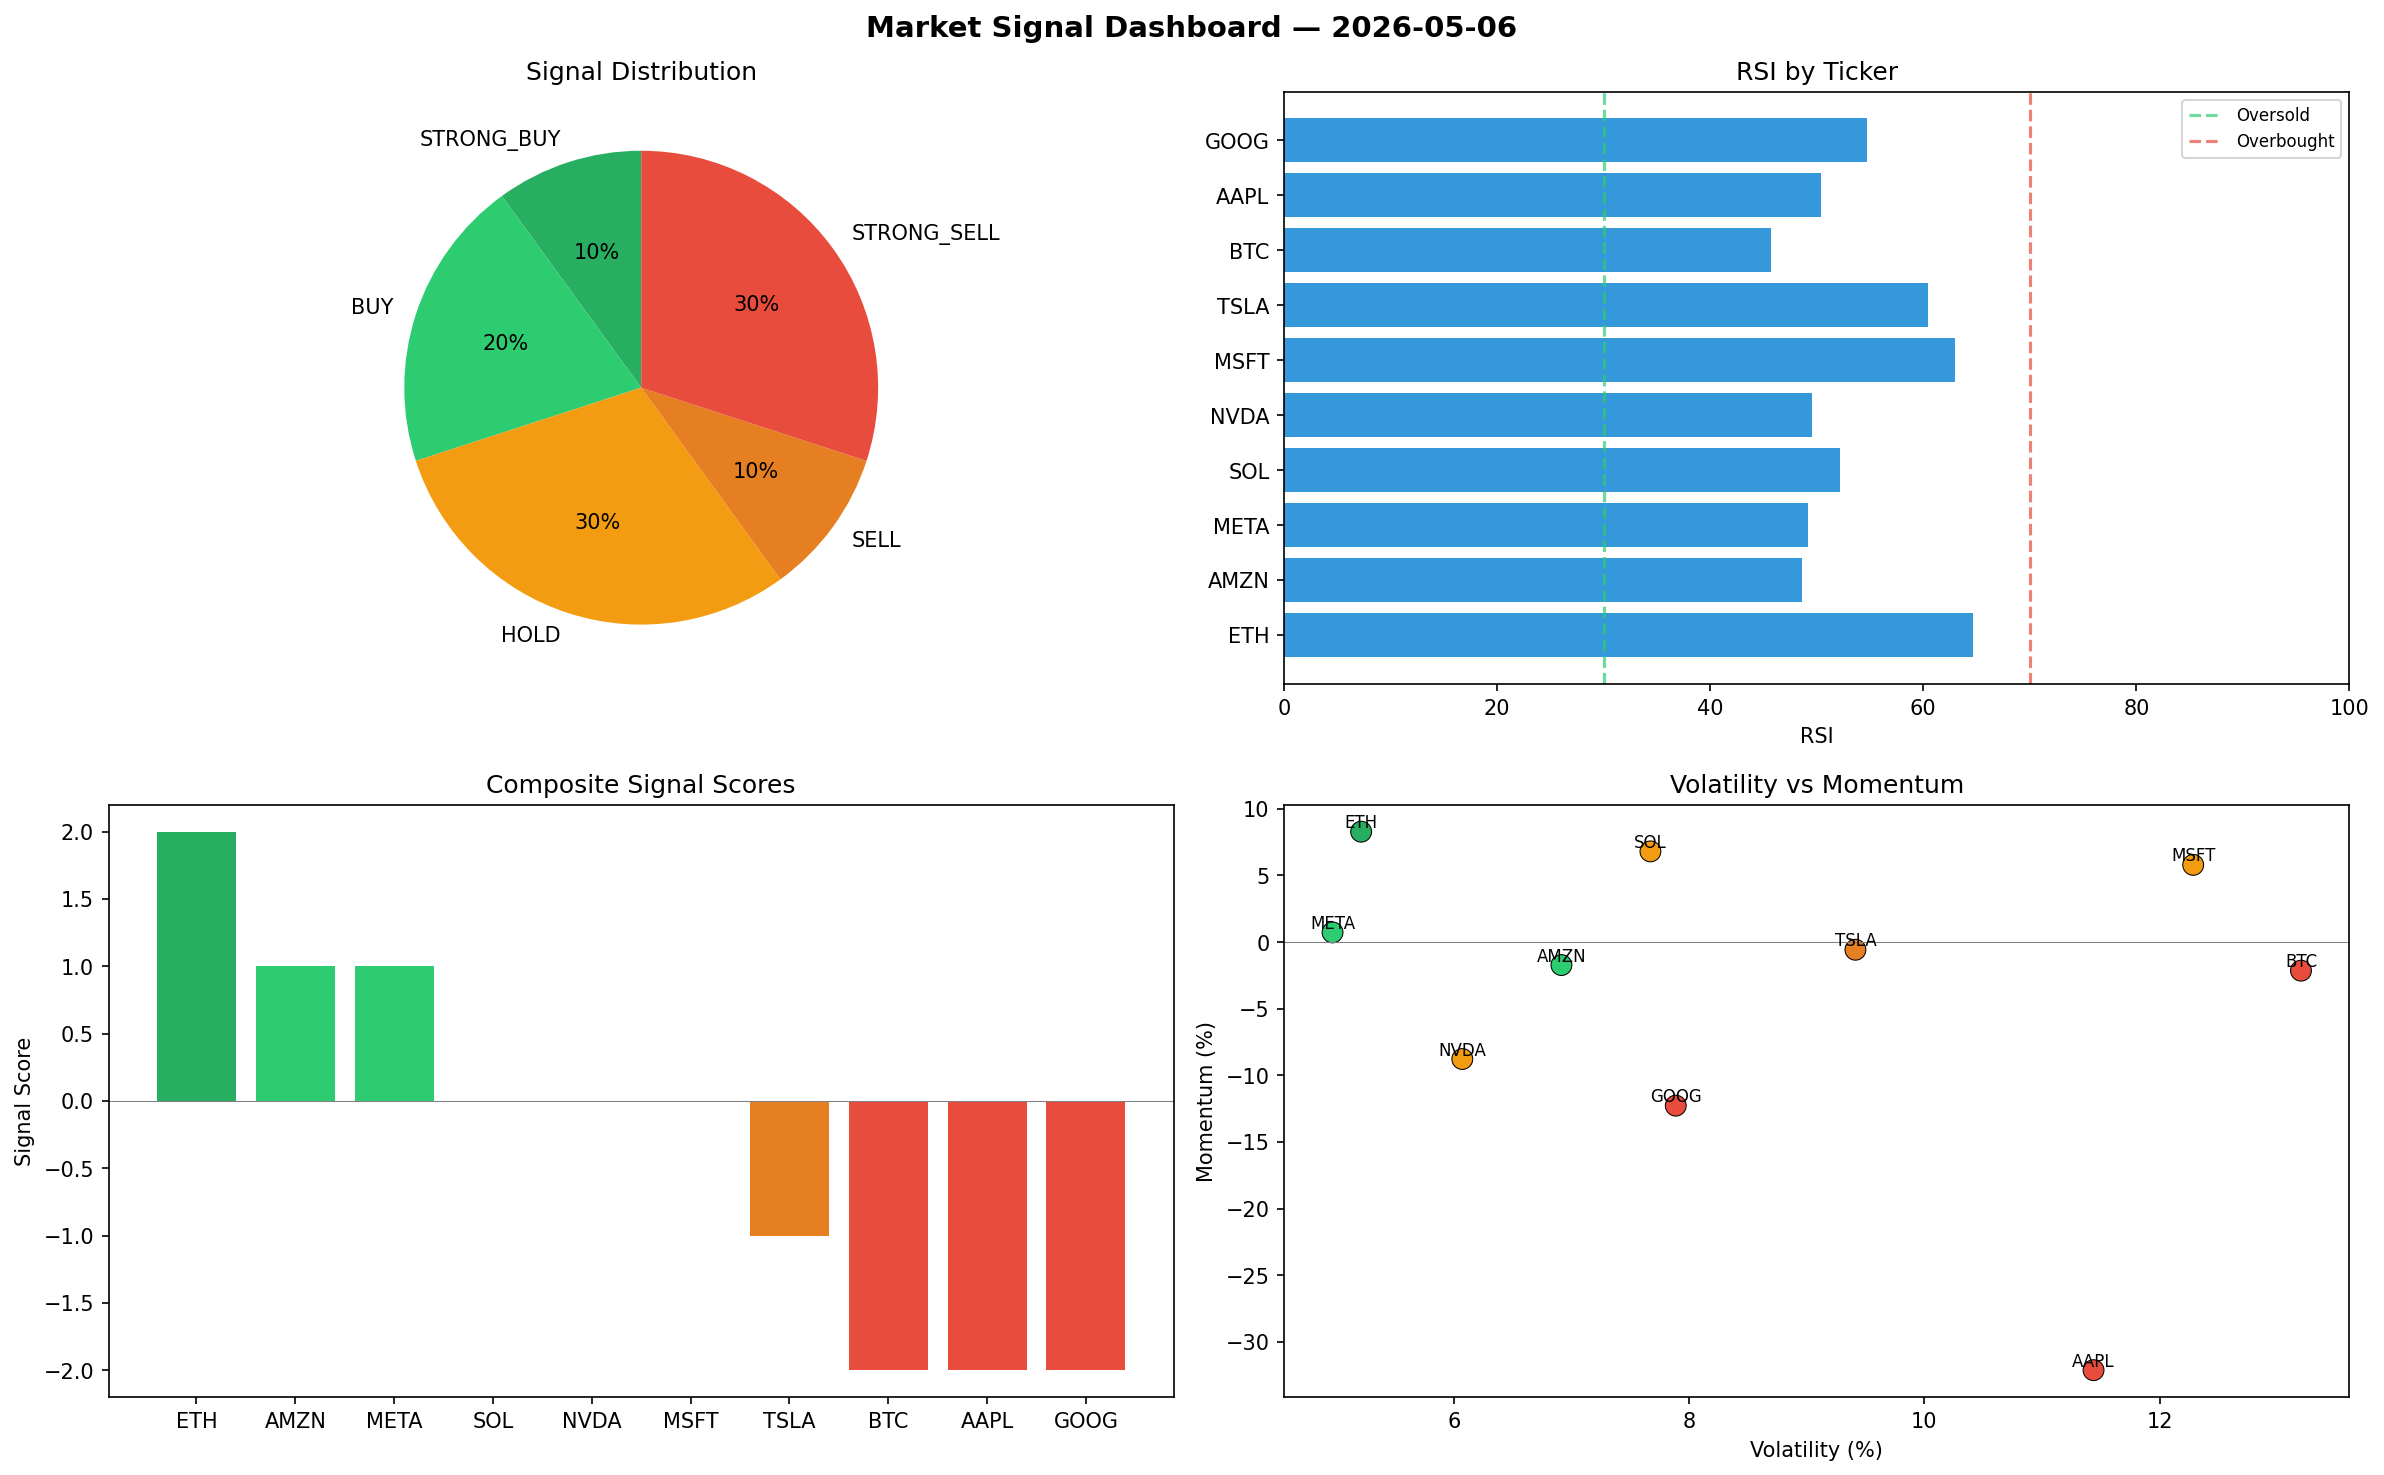
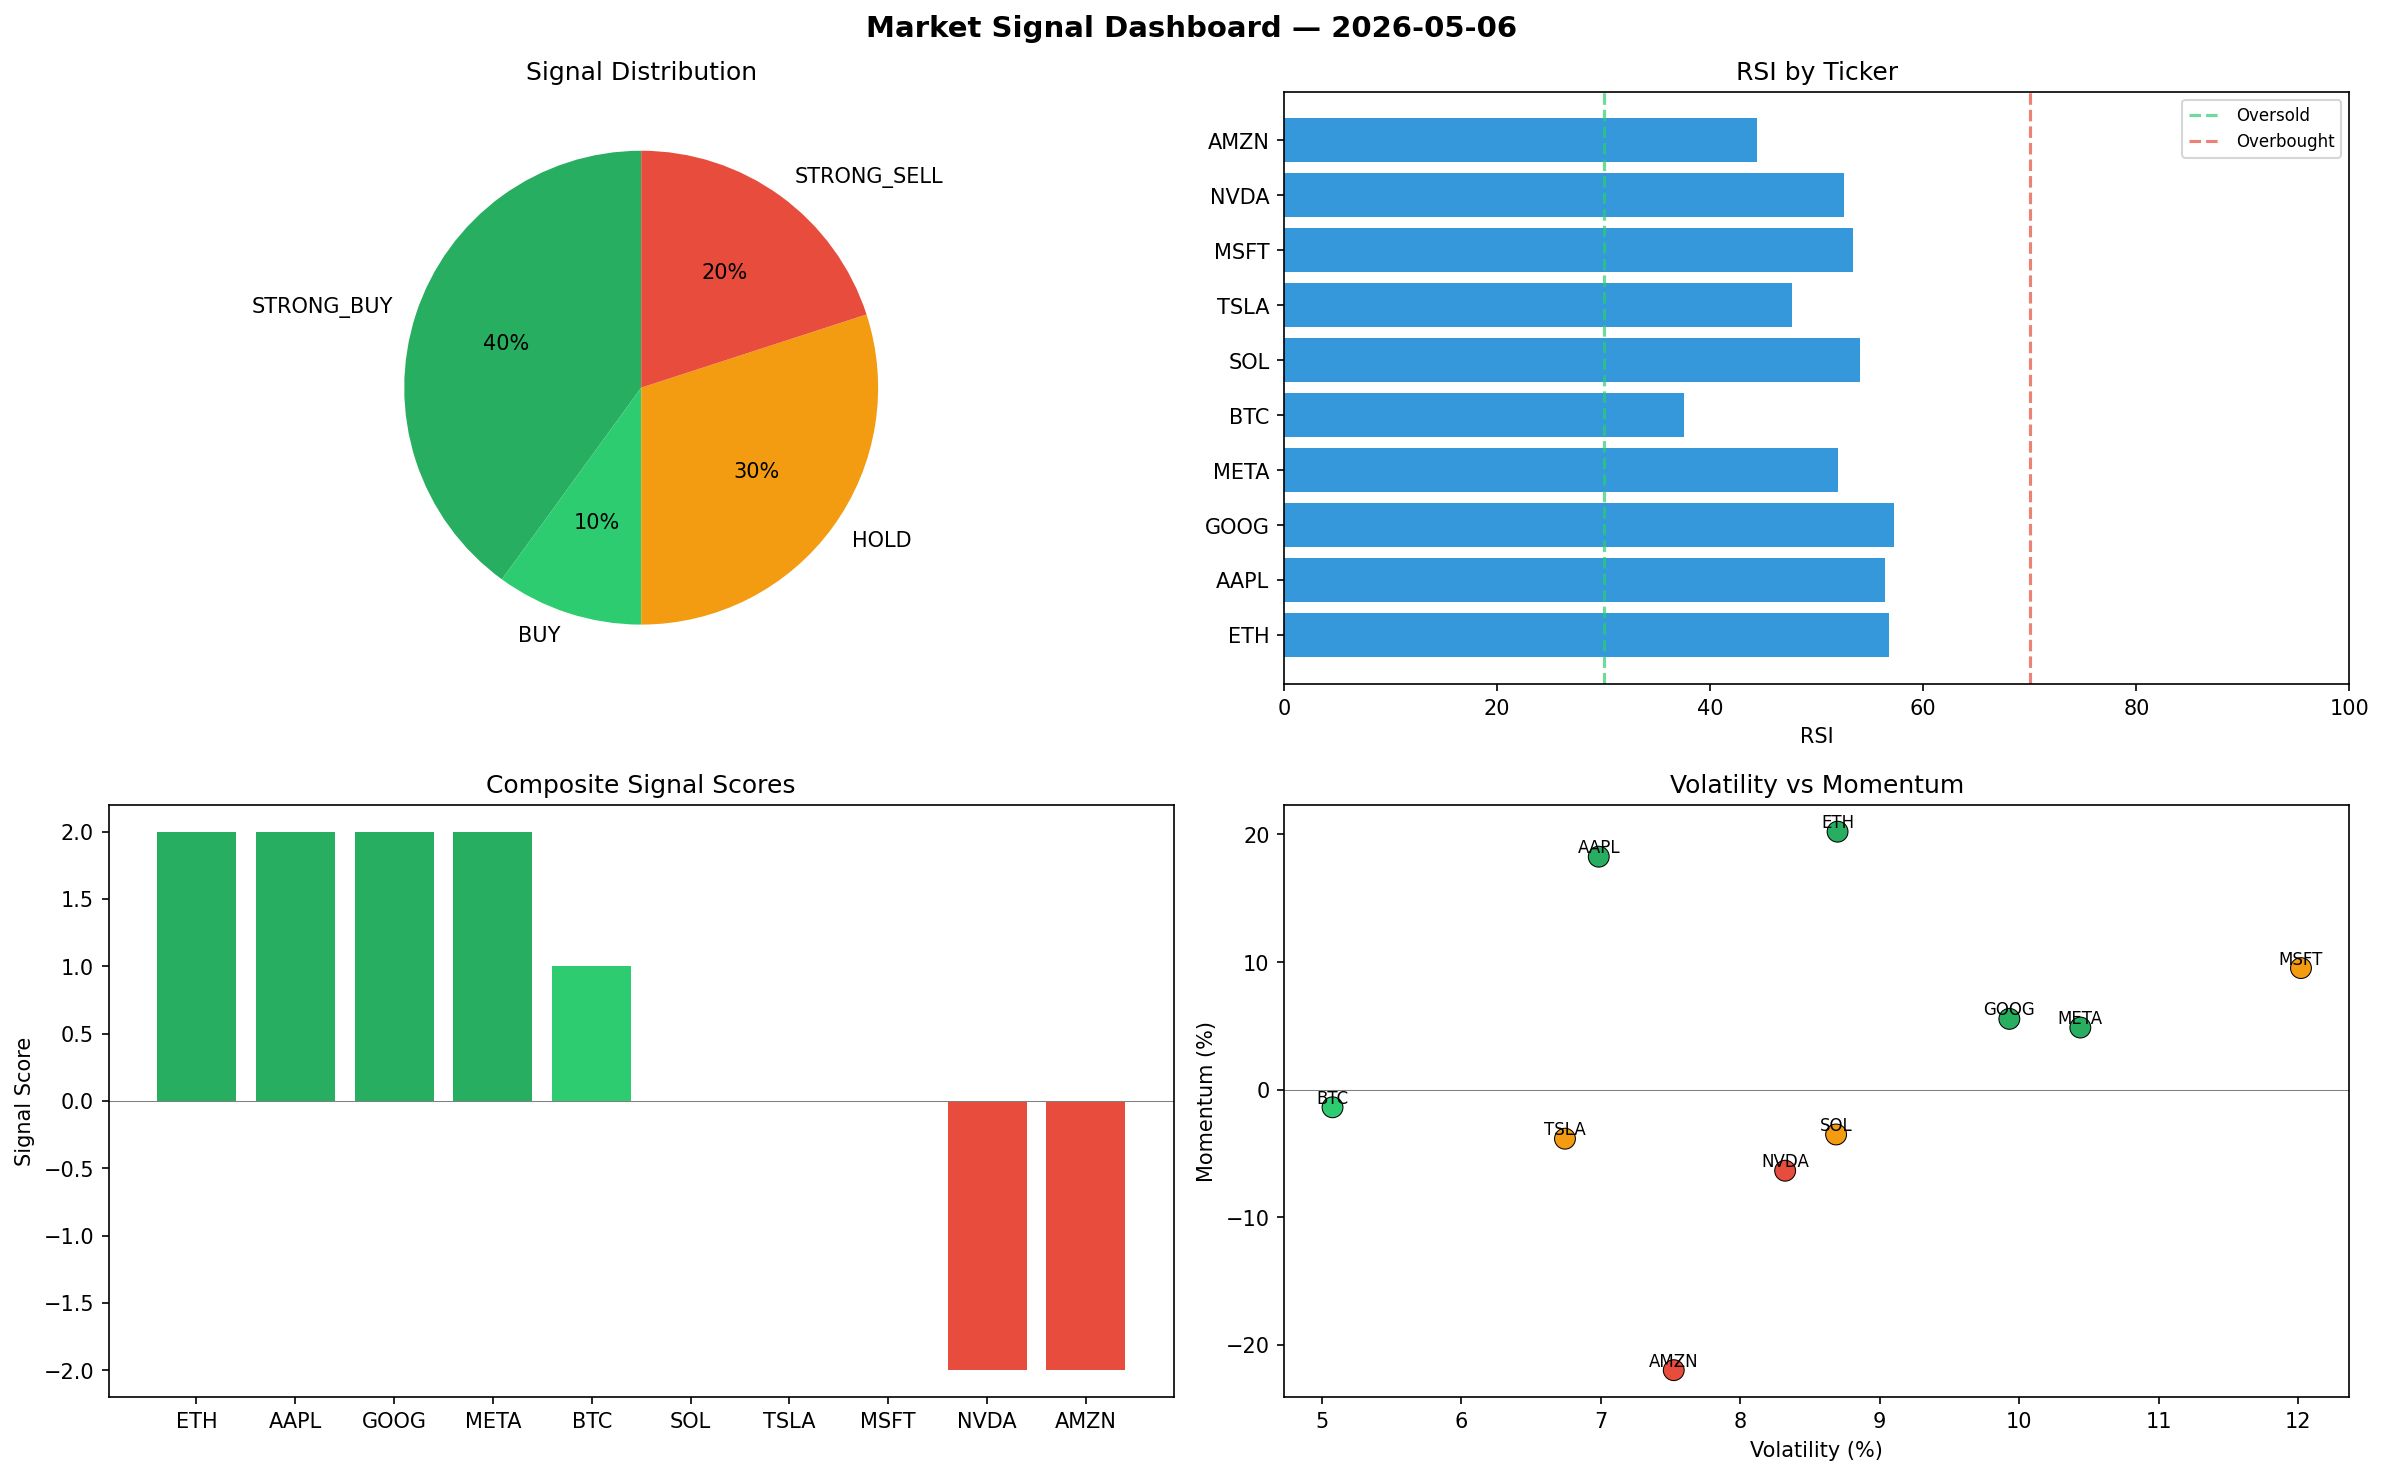
automated-bots: market signals 2026-05-06T16:14

diff --git a/logs/2026-05-06.md b/logs/2026-05-06.md
@@ -1,6 +1,6 @@
 # Market Signal Report — 2026-05-06
 
-**Run ID:** `5e7147bd42` | **Buy:** 3 | **Sell:** 4 | **Hold:** 3
+**Run ID:** `b324e6b1e6` | **Buy:** 5 | **Sell:** 2 | **Hold:** 3
 
 ![Dashboard](2026-05-06_dashboard.png)
 
@@ -8,28 +8,28 @@
 
 | Ticker | Price | Signal | Score | RSI | Momentum | Confidence |
 |--------|-------|--------|-------|-----|----------|------------|
-| ETH | $2928.44 | **STRONG_BUY** | 2 | 64.71 | 0.0828 | 0.5 |
-| AMZN | $4574.43 | **BUY** | 1 | 48.62 | -0.0173 | 0.25 |
-| META | $1223.02 | **BUY** | 1 | 49.21 | 0.0072 | 0.25 |
-| SOL | $4829.8 | **HOLD** | 0 | 52.14 | 0.068 | 0.0 |
-| NVDA | $1469.12 | **HOLD** | 0 | 49.58 | -0.0878 | 0.0 |
-| MSFT | $3960.76 | **HOLD** | 0 | 63.0 | 0.0579 | 0.0 |
-| TSLA | $4202.79 | **SELL** | -1 | 60.4 | -0.0058 | 0.25 |
-| BTC | $2534.21 | **STRONG_SELL** | -2 | 45.68 | -0.0215 | 0.5 |
-| AAPL | $326.67 | **STRONG_SELL** | -2 | 50.37 | -0.3213 | 0.5 |
-| GOOG | $2687.05 | **STRONG_SELL** | -2 | 54.69 | -0.1228 | 0.5 |
+| ETH | $5520.59 | **STRONG_BUY** | 2 | 56.74 | 0.2022 | 0.5 |
+| AAPL | $3970.32 | **STRONG_BUY** | 2 | 56.38 | 0.1826 | 0.5 |
+| GOOG | $356.0 | **STRONG_BUY** | 2 | 57.23 | 0.0555 | 0.5 |
+| META | $996.46 | **STRONG_BUY** | 2 | 51.97 | 0.0487 | 0.5 |
+| BTC | $585.8 | **BUY** | 1 | 37.51 | -0.0138 | 0.25 |
+| SOL | $146.35 | **HOLD** | 0 | 54.05 | -0.0351 | 0.0 |
+| TSLA | $1338.62 | **HOLD** | 0 | 47.66 | -0.0384 | 0.0 |
+| MSFT | $3926.73 | **HOLD** | 0 | 53.36 | 0.0953 | 0.0 |
+| NVDA | $2264.98 | **STRONG_SELL** | -2 | 52.54 | -0.0635 | 0.5 |
+| AMZN | $870.06 | **STRONG_SELL** | -2 | 44.36 | -0.2198 | 0.5 |
 
 ## Delta vs Yesterday
 
 | Ticker | Today | Yesterday | Price Change | Signal Changed |
 |--------|-------|-----------|-------------|----------------|
-| ETH | STRONG_BUY | HOLD | 📈 3.85% | ⚠ YES |
-| AMZN | BUY | STRONG_BUY | 📈 28.83% | ⚠ YES |
-| META | BUY | BUY | 📉 -31.42% | — |
-| SOL | HOLD | STRONG_SELL | 📈 382.06% | ⚠ YES |
-| NVDA | HOLD | BUY | 📈 38.28% | ⚠ YES |
-| MSFT | HOLD | STRONG_SELL | 📈 115.49% | ⚠ YES |
-| TSLA | SELL | STRONG_SELL | 📈 80.77% | ⚠ YES |
-| BTC | STRONG_SELL | SELL | 📈 13.81% | ⚠ YES |
-| AAPL | STRONG_SELL | STRONG_SELL | 📉 -92.76% | — |
-| GOOG | STRONG_SELL | HOLD | 📉 -27.65% | ⚠ YES |
+| ETH | STRONG_BUY | HOLD | 📈 95.78% | ⚠ YES |
+| AAPL | STRONG_BUY | STRONG_SELL | 📉 -12.06% | ⚠ YES |
+| GOOG | STRONG_BUY | HOLD | 📉 -90.41% | ⚠ YES |
+| META | STRONG_BUY | BUY | 📉 -44.13% | ⚠ YES |
+| BTC | BUY | SELL | 📉 -73.69% | ⚠ YES |
+| SOL | HOLD | STRONG_SELL | 📉 -85.39% | ⚠ YES |
+| TSLA | HOLD | STRONG_SELL | 📉 -42.42% | ⚠ YES |
+| MSFT | HOLD | STRONG_SELL | 📈 113.64% | ⚠ YES |
+| NVDA | STRONG_SELL | BUY | 📈 113.2% | ⚠ YES |
+| AMZN | STRONG_SELL | STRONG_BUY | 📉 -75.5% | ⚠ YES |
